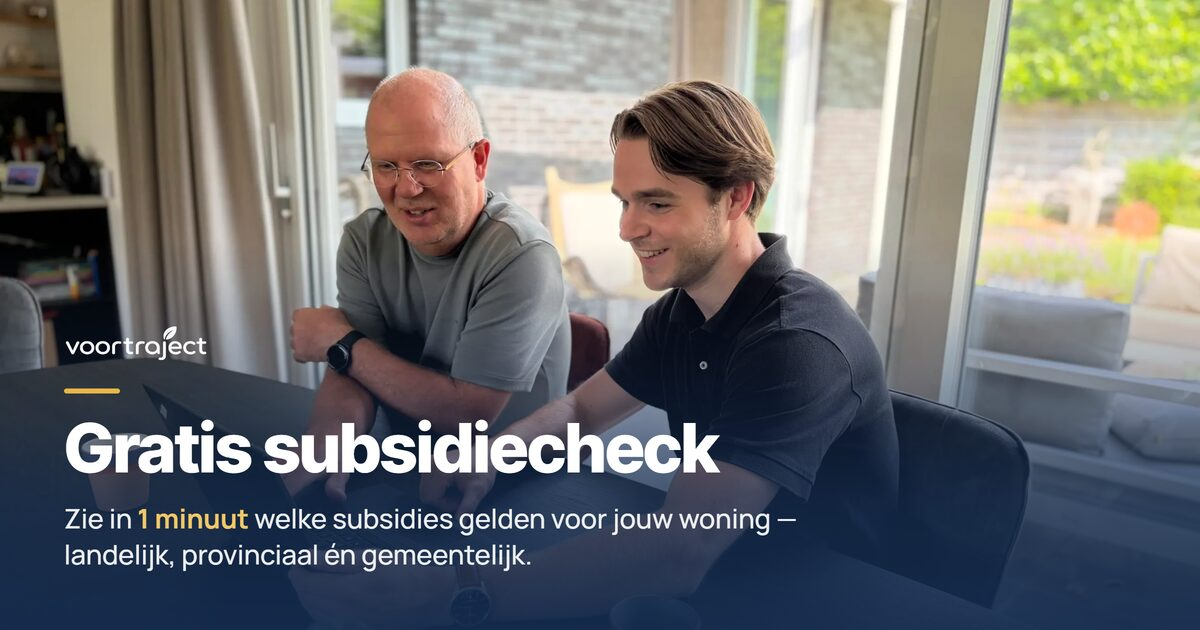
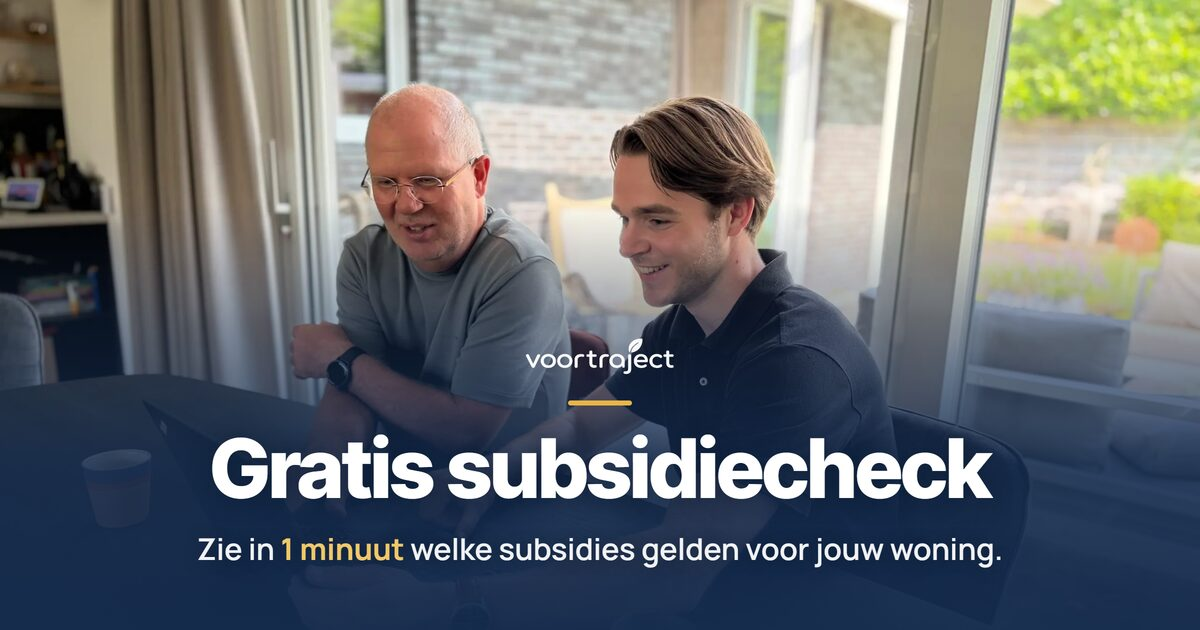
fix(subsidiecheck): deelknop deelt kale URL + grotere/gecentreerde deel-kaart
- Deelknop stuurde via de Web Share API tekst + URL mee; WhatsApp toont dan bij
  het delen vaak geen preview-kaart. Nu delen we alleen de kale URL, net als bij
  handmatig plakken — dan verschijnt de kaart wel.
- Deel-kaart herzien: logo + kop gecentreerd en groter, sterkere scrim. Leesbaar
  als grote banner én als WhatsApp 'm klein/vierkant bijsnijdt.

diff --git a/src/components/subsidiecheck/StapResultaat.tsx b/src/components/subsidiecheck/StapResultaat.tsx
@@ -96,15 +96,13 @@ export const StapResultaat = ({ input, adres }: StapResultaatProps) => {
   const deelTimer = useRef<ReturnType<typeof setTimeout>>();
   useEffect(() => () => clearTimeout(deelTimer.current), []);
   const deelTool = async () => {
+    // Deel alléén de kale URL. WhatsApp (en andere apps) tonen dan de rijke
+    // preview-kaart — net als wanneer je de link handmatig plakt. Sturen we er
+    // tekst bij mee, dan slaat WhatsApp de preview bij het delen vaak over.
     const url = `${window.location.origin}/subsidiecheck`;
-    const data = {
-      title: "Voortraject — gratis subsidiecheck",
-      text: "Gratis subsidiecheck van Voortraject — zie in 1 minuut welke verduurzamingssubsidies er voor jouw woning zijn.",
-      url,
-    };
     if (navigator.share) {
       try {
-        await navigator.share(data);
+        await navigator.share({ url });
       } catch {
         /* door de gebruiker geannuleerd */
       }
